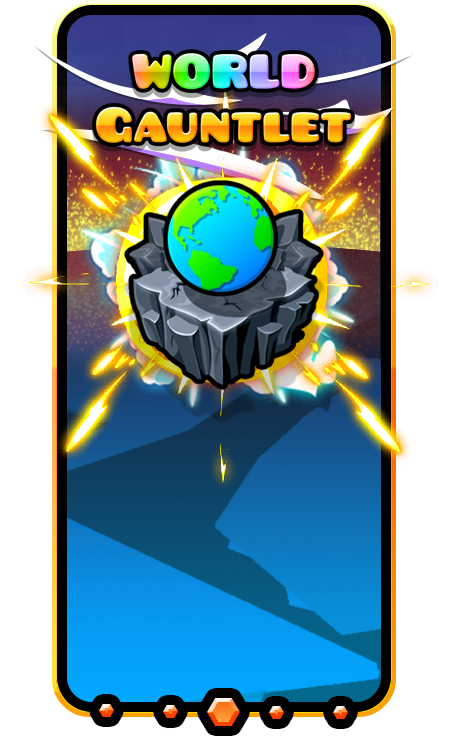
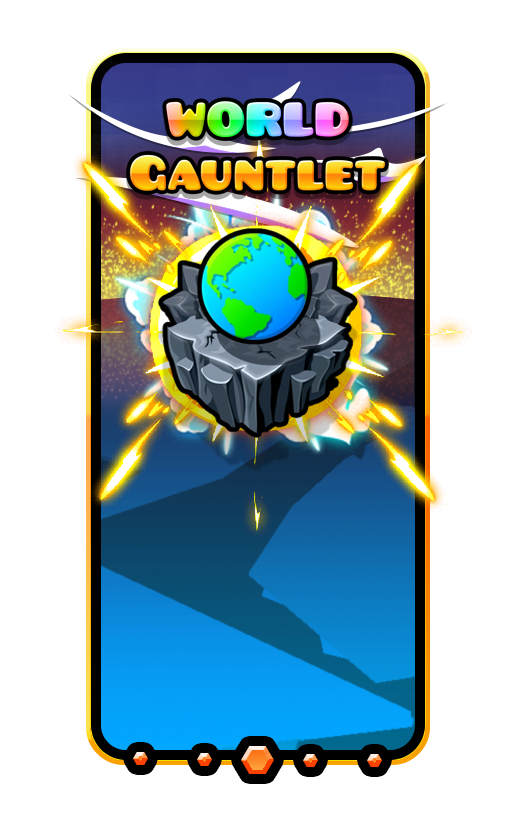
Castle gauntlet

diff --git a/src/Styles/GauntletStyle.cpp b/src/Styles/GauntletStyle.cpp
@@ -21,9 +21,9 @@ class $modify(GauntletSelectLayer) {
 
                     // Handle spaces
                     if (j == 0) {
-                        item->setPositionX(item->getPositionX() - 20.0f);
+                        item->setPositionX(item->getPositionX() - 25.0f);
                     } else if (j == 2) {
-                        item->setPositionX(item->getPositionX() + 20.0f);
+                        item->setPositionX(item->getPositionX() + 25.0f);
                     }
 
                     GauntletNode* node = typeinfo_cast<GauntletNode*>(item->getChildByIDRecursive("gauntlet-node"));
@@ -50,7 +50,7 @@ class $modify(GauntletSelectLayer) {
                     if (gauntletName == "World") {
                         CCSprite* sprite = CCSprite::create(Mod::get()->expandSpriteName("world_gauntlet.png"));
                         sprite->setPosition(bg->getPosition());
-                        sprite->setScale(1.225f);
+                        sprite->setScale(1.270f);
                         sprite->setZOrder(0);
                         node->addChild(sprite);
                     } else if (gauntletName == "Fantasy") {
@@ -68,7 +68,13 @@ class $modify(GauntletSelectLayer) {
                     } else if (gauntletName == "Demon") {
                         CCSprite* sprite = CCSprite::create(Mod::get()->expandSpriteName("demon_gauntlet.png"));
                         sprite->setPosition(bg->getPosition());
-                        sprite->setScale(1.225f);
+                        sprite->setScale(1.275f);
+                        sprite->setZOrder(0);
+                        node->addChild(sprite);
+                    } else if (gauntletName == "Castle") {
+                        CCSprite* sprite = CCSprite::create(Mod::get()->expandSpriteName("castle_gauntlet.png"));
+                        sprite->setPosition(bg->getPosition());
+                        sprite->setScale(1.275f);
                         sprite->setZOrder(0);
                         node->addChild(sprite);
                     } else {
